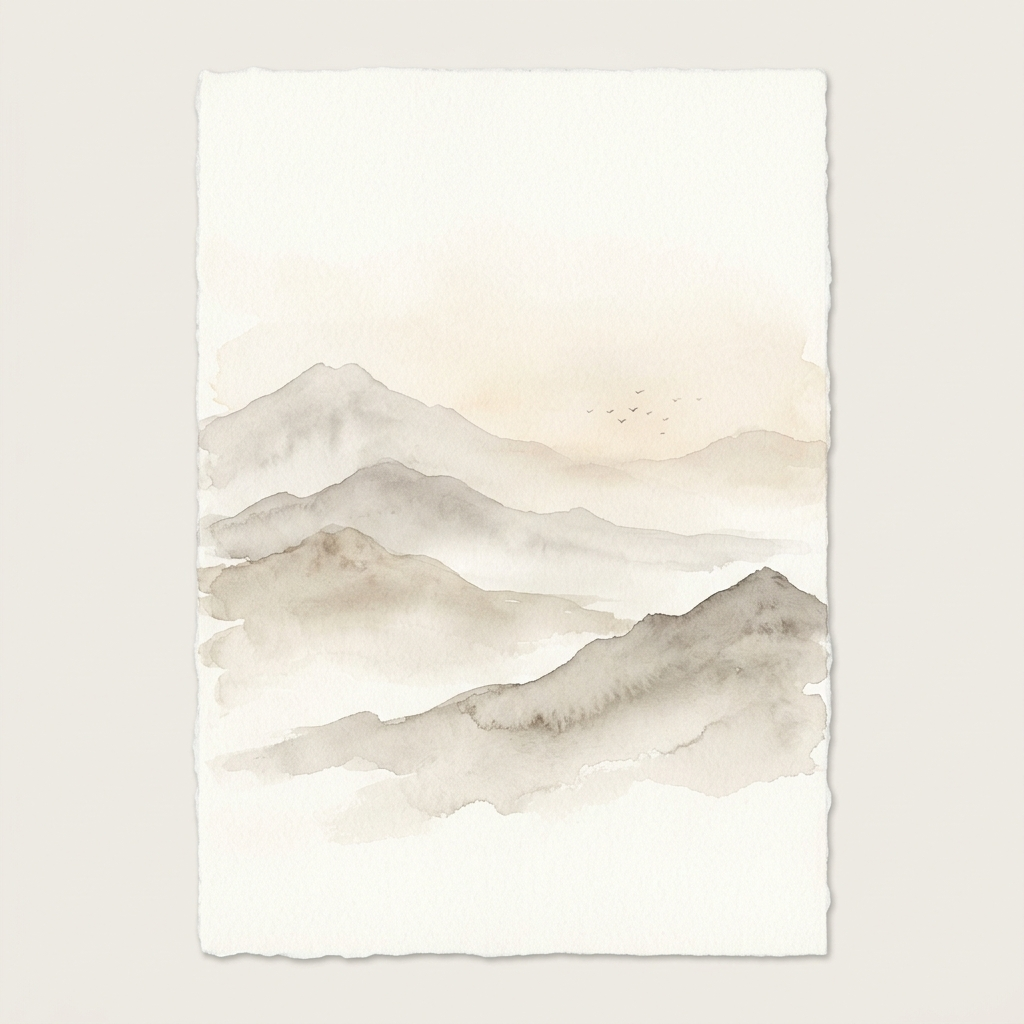
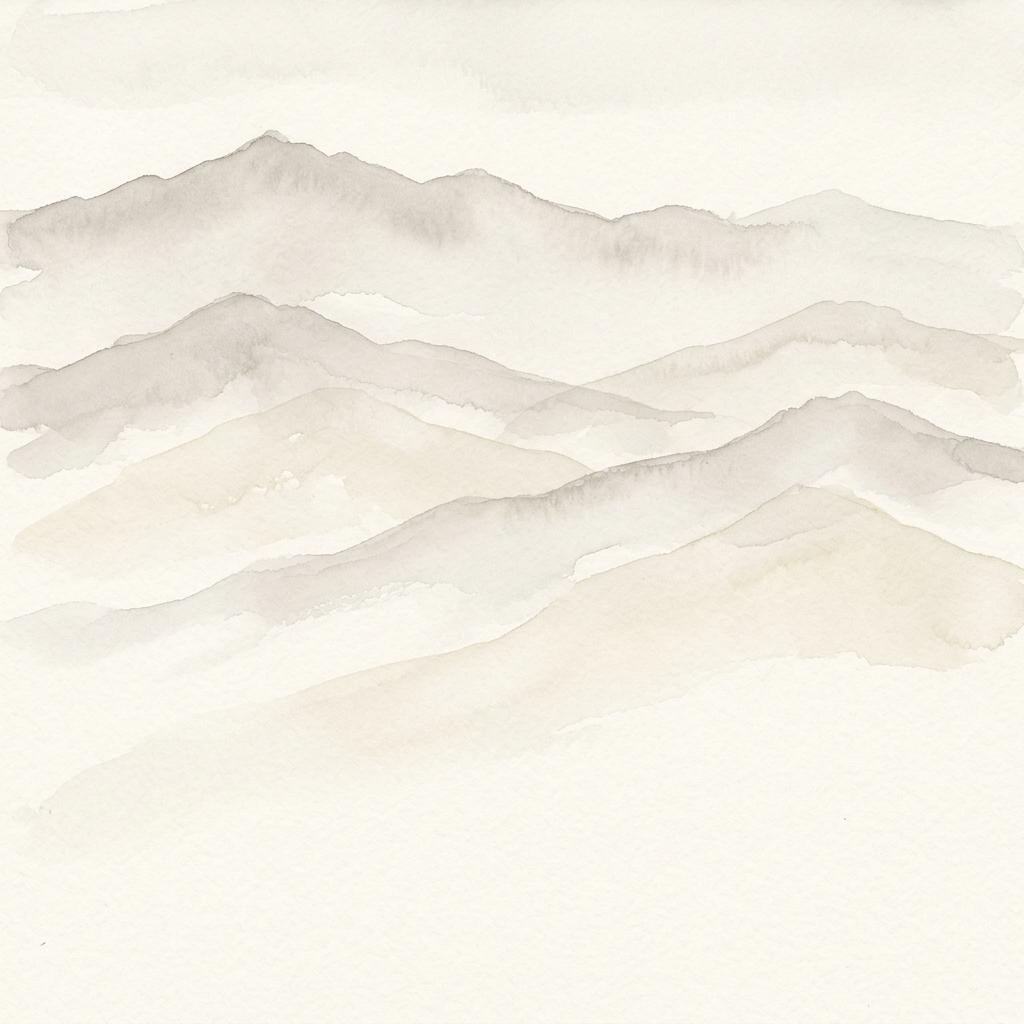
use new light watercolor mountains positioned directly at the top

diff --git a/src/app/page.tsx b/src/app/page.tsx
@@ -11,11 +11,11 @@ export default function Home() {
           src="/images/mountains-subtle.png"
           alt="Watercolor mountains background"
           fill
-          className="object-cover object-top scale-[1.5] -translate-y-[22%]"
+          className="object-cover object-top scale-[1.08]"
           priority
         />
         {/* Gradient overlay to smoothly evaporate the bottom of the mountains into the cream background */}
-        <div className="absolute inset-0 bg-[linear-gradient(180deg,rgba(250,246,241,0)_30%,rgba(250,246,241,1)_100%)]" />
+        <div className="absolute inset-0 bg-[linear-gradient(180deg,rgba(250,246,241,0)_20%,rgba(250,246,241,1)_100%)]" />
       </div>
 
       {/* Content wrapper with relative positioning */}
